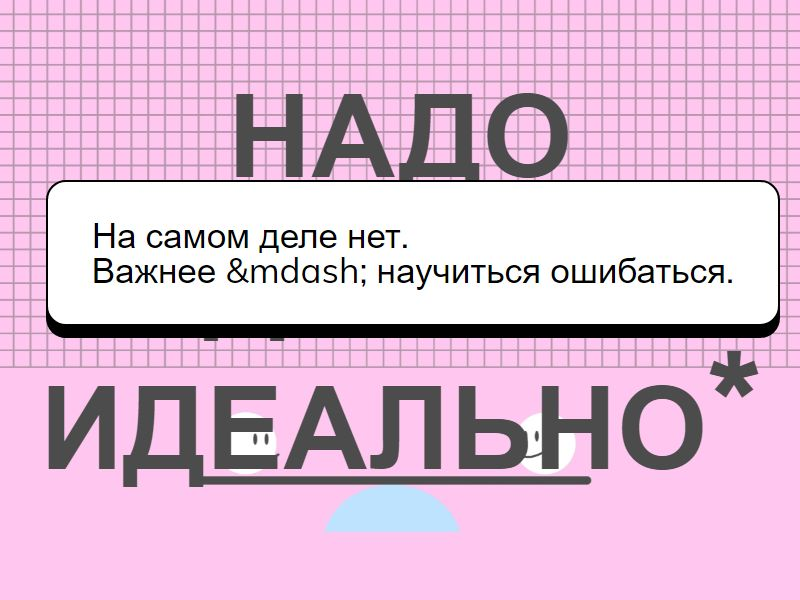
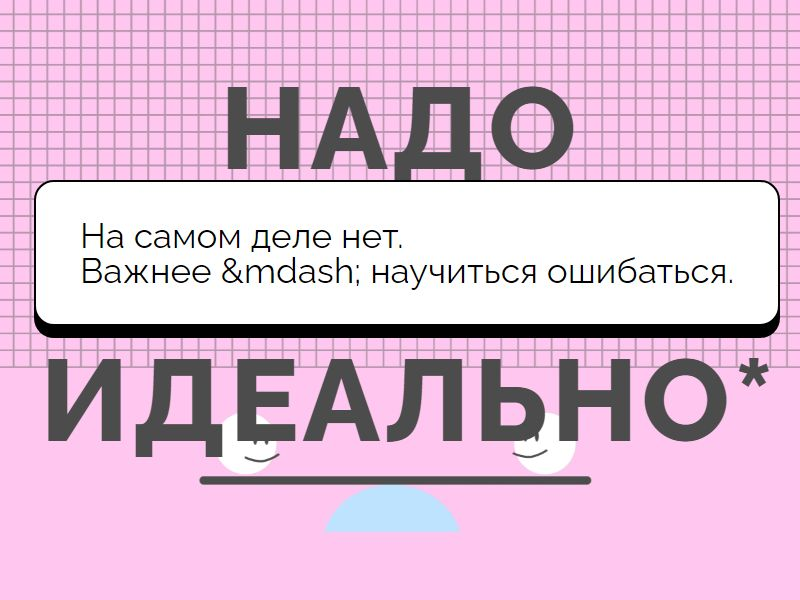
7b79bd58bcdc4ed39f8886f0f195d257894e5f47

diff --git a/src/tests.js b/src/tests.js
@@ -1,1 +1,1 @@
-import path from'path';import{mkfile,mkdir}from'@hexlet/immutable-fs-trees';import{checkStructure,checkW3C,checkCSS,checkOrderStylesheetLinks,checkAlternativeFonts,checkBodyElements,checkLang,checkTitleEmmet,checkElementsBySelectors,checkPropertiesByElement,checkVideoAttributes,checkPseudoElements,checkLayout}from'./lib.js';import initPuppeteer from'./puppeteer.js';const runTests=async(a,b)=>{const c=mkdir('project',[mkfile('index.html'),mkdir('styles',[mkfile('style.css')]),mkdir('fonts',[mkfile('font.css')]),mkdir('video'),mkdir('images')]),d=checkStructure(a,c);if(d.length)return d;const{browser:e,page:f}=await initPuppeteer(path.join(a,'index.html')),g=(await Promise.all([checkW3C(path.join(a,'index.html')),checkCSS(a),checkOrderStylesheetLinks(f,['font.css','style.css']),checkAlternativeFonts(path.join(a,'styles','style.css'),['Mulish']),checkBodyElements(f,['video','h1']),checkLang(f,b),checkTitleEmmet(f),checkElementsBySelectors(f,[{name:'description',selector:'meta[name="description"][content]:not([content=""])'},{name:'og:url',selector:'meta[property="og:url"][content]:not([content=""])'},{name:'og:title',selector:'meta[property="og:title"][content]:not([content=""])'},{name:'og:description',selector:'meta[property="og:description"][content]:not([content=""])'},{name:'og:image',selector:'meta[property="og:image"][content]:not([content=""])'},{name:'twitter:card',selector:'meta[property="twitter:card"][content]:not([content=""])'}],'metaTagsMissing'),checkElementsBySelectors(f,[{name:'ico',selector:'link[rel="icon"][href$=".ico"]'},{name:'svg',selector:'link[rel="icon"][href$=".svg"]'}],'faviconsMissing'),checkElementsBySelectors(f,[{name:'apple-touch-icon',selector:'link[rel="apple-touch-icon"]'}],'mobileFaviconMissing'),checkPropertiesByElement(f,'body',{margin:'0px'}),checkVideoAttributes(f,['muted','autoplay','poster','loop'],['controls']),checkPseudoElements(path.join(a,'styles','style.css')),checkLayout(f)])).flat();return await e.close(),g};export default runTests;
+import path from'path';import{mkfile,mkdir}from'@hexlet/immutable-fs-trees';import{checkStructure,checkW3C,checkCSS,checkOrderStylesheetLinks,checkAlternativeFonts,checkBodyElements,checkLang,checkTitleEmmet,checkElementsBySelectors,checkPropertiesByElement,checkVideoAttributes,checkPseudoElements,checkLayout}from'./lib.js';import initPuppeteer from'./puppeteer.js';const runTests=async(a,b)=>{const c=mkdir('project',[mkfile('index.html'),mkdir('styles',[mkfile('style.css')]),mkdir('fonts',[mkfile('font.css')]),mkdir('video'),mkdir('images')]),d=checkStructure(a,c);if(d.length)return d;const{browser:e,page:f}=await initPuppeteer(path.join(a,'index.html')),g=(await Promise.all([checkW3C(path.join(a,'index.html')),checkCSS(a),checkOrderStylesheetLinks(f,['font.css','style.css']),checkAlternativeFonts(path.join(a,'styles','style.css'),['Raleway']),checkBodyElements(f,['video','h1']),checkLang(f,b),checkTitleEmmet(f),checkElementsBySelectors(f,[{name:'description',selector:'meta[name="description"][content]:not([content=""])'},{name:'og:url',selector:'meta[property="og:url"][content]:not([content=""])'},{name:'og:title',selector:'meta[property="og:title"][content]:not([content=""])'},{name:'og:description',selector:'meta[property="og:description"][content]:not([content=""])'},{name:'og:image',selector:'meta[property="og:image"][content]:not([content=""])'},{name:'twitter:card',selector:'meta[property="twitter:card"][content]:not([content=""])'}],'metaTagsMissing'),checkElementsBySelectors(f,[{name:'ico',selector:'link[rel="icon"][href$=".ico"]'},{name:'svg',selector:'link[rel="icon"][href$=".svg"]'}],'faviconsMissing'),checkElementsBySelectors(f,[{name:'apple-touch-icon',selector:'link[rel="apple-touch-icon"]'}],'mobileFaviconMissing'),checkPropertiesByElement(f,'body',{margin:'0px'}),checkVideoAttributes(f,['muted','autoplay','poster','loop'],['controls']),checkPseudoElements(path.join(a,'styles','style.css')),checkLayout(f)])).flat();return await e.close(),g};export default runTests;
